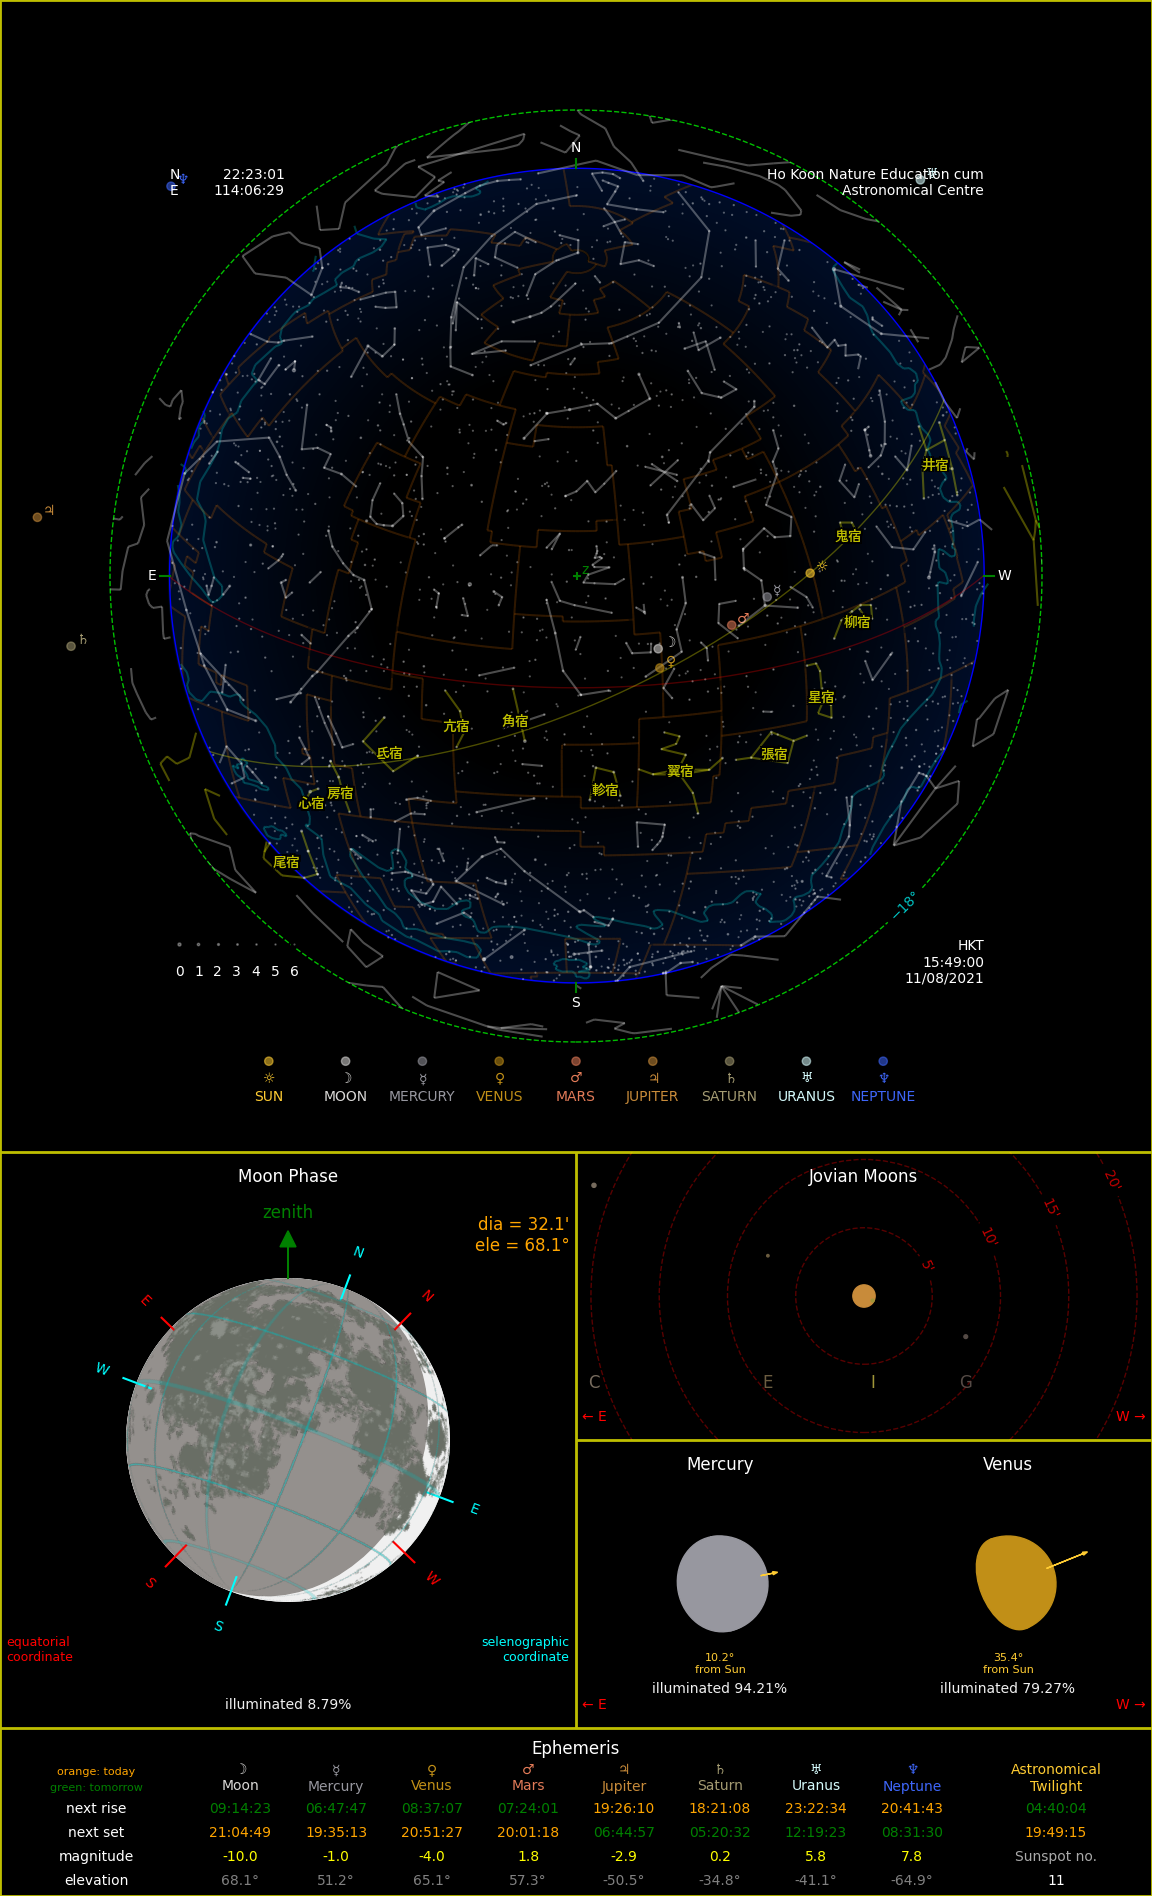
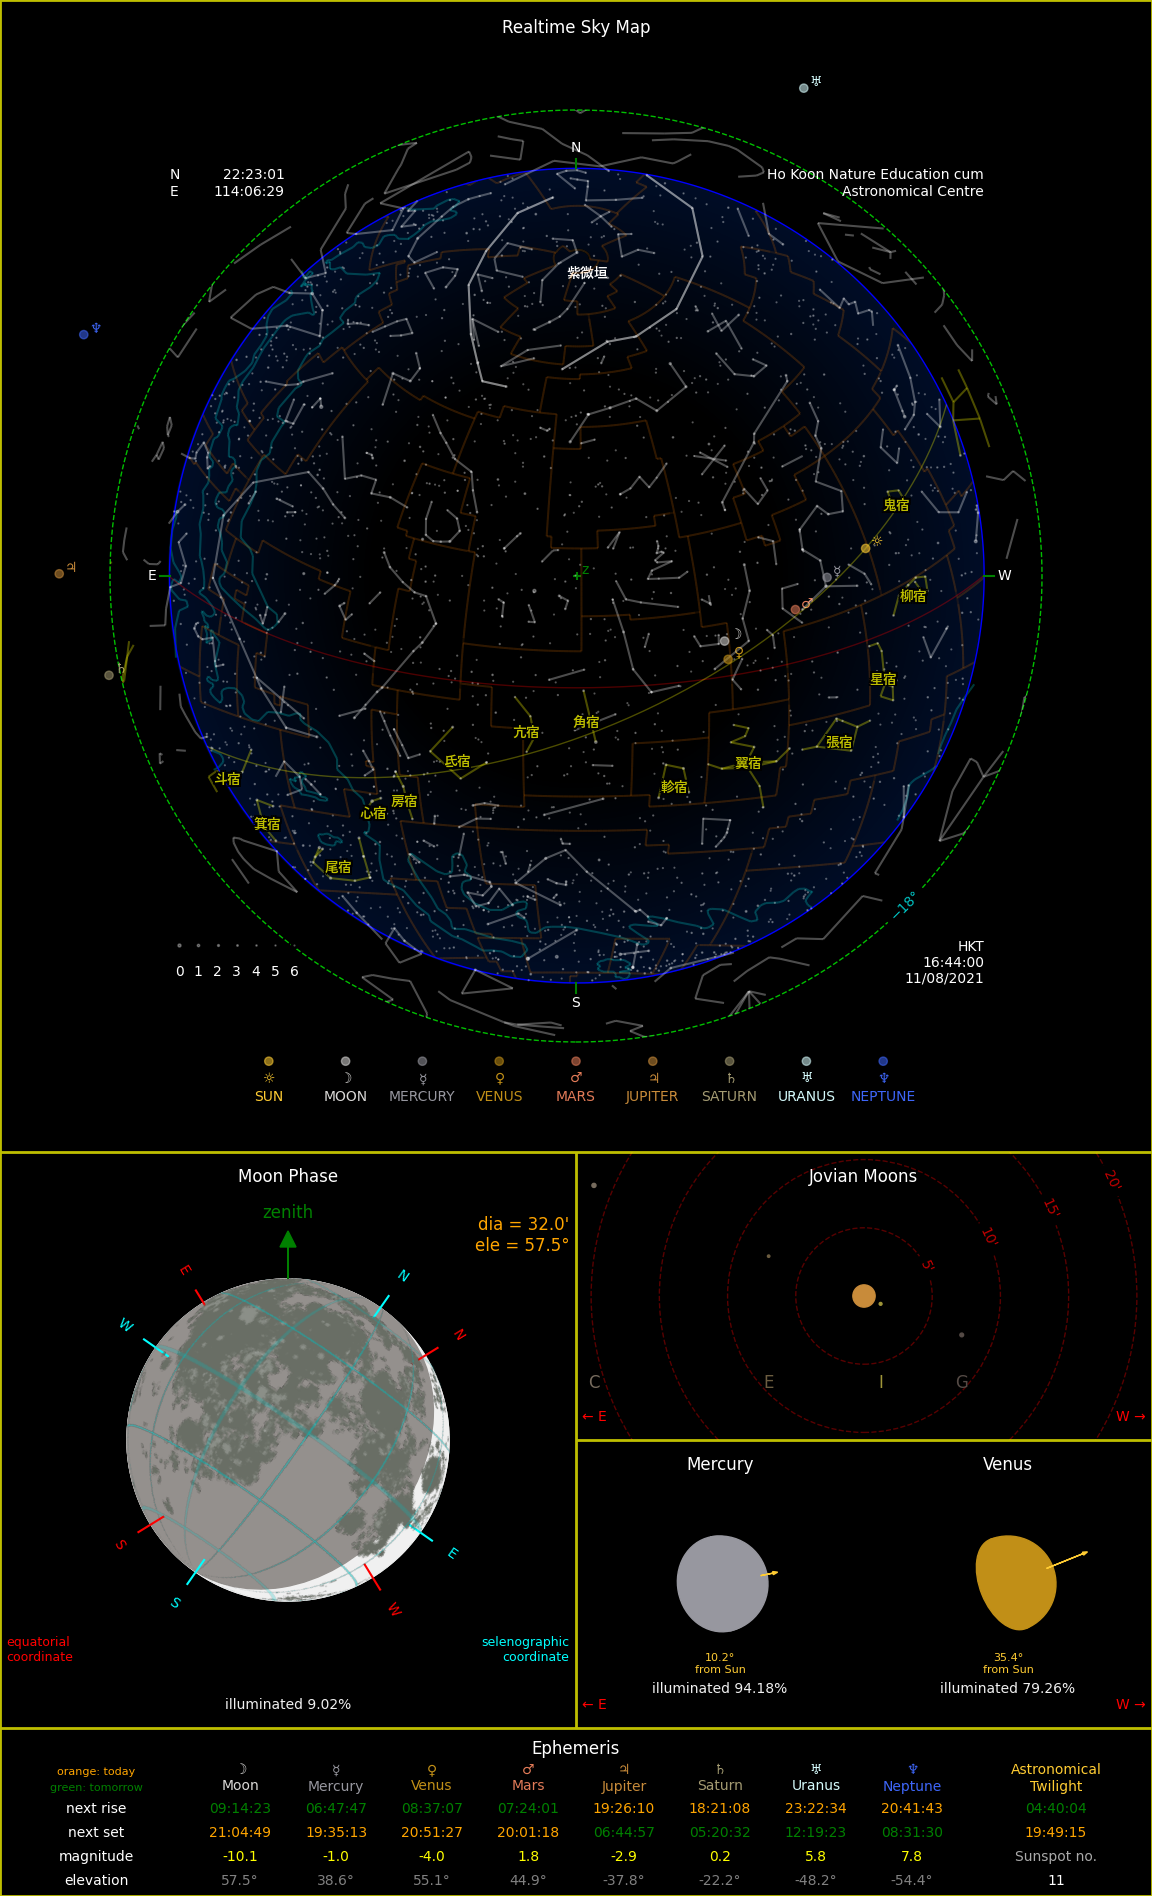
Add files via upload

diff --git a/ASC_skymap_C.py b/ASC_skymap_C.py
@@ -700,6 +700,17 @@ def plot_constellation():
     ########
     #紫微垣#
     ########
+    #紫微垣#
+    C_A00 = [[Cas.x[44],Cep.x[14]],[Cas.y[44],Cep.y[14]],[Cep.x[14],Dra.x[50]],[Cep.y[14],Dra.y[50]],\
+             [Dra.x[1],Dra.x[4]],[Dra.y[1],Dra.y[4]],[Dra.x[1],Dra.x[12]],[Dra.y[1],Dra.y[12]],\
+             [Dra.x[4],Dra.x[25]],[Dra.y[4],Dra.y[25]],[Dra.x[5],Dra.x[12]],[Dra.y[5],Dra.y[12]],\
+             [Dra.x[25],Dra.x[50]],[Dra.y[25],Dra.y[50]],[Cam.x[2],Cam.x[10]],[Cam.y[2],Cam.y[10]],\
+             [Cam.x[2],Cam.x[20]],[Cam.y[2],Cam.y[20]],[Cam.x[20],UMa.x[23]],[Cam.y[20],UMa.y[23]],\
+             [Dra.x[7],Dra.x[11]],[Dra.y[7],Dra.y[11]],[Dra.x[10],Dra.x[11]],[Dra.y[10],Dra.y[11]],\
+             [Dra.x[10],UMa.x[23]],[Dra.y[10],UMa.y[23]]]
+    CA00n = [numpy.mean([numpy.mean([Cep.x[14],Dra.x[50]]),numpy.mean([Cam.x[20],Dra.x[10],UMa.x[23]])]),\
+             numpy.mean([numpy.mean([Cep.y[14],Dra.y[50]]),numpy.mean([Cam.y[20],Dra.y[10],UMa.y[23]])])]
+    print(CA00n)
     #北極#
     C_A01 = [[UMi.x[1],UMi.x[2]],[UMi.y[1],UMi.y[2]],[UMi.x[1],UMi.x[4]],[UMi.y[1],UMi.y[4]],\
              [UMi.x[4],UMi.x[8]],[UMi.y[4],UMi.y[8]],[UMi.x[8],Cam.x[29]],[UMi.y[8],Cam.y[29]]]
@@ -875,7 +886,7 @@ def plot_constellation():
     C_A_list = [C_A01,C_A02,C_A03,C_A04,C_A05,C_A06,C_A07,C_A08,C_A09,C_A10,\
                 C_A11,C_A12,C_A13,C_A14,C_A15,C_A16,C_A17,C_A18,C_A19,C_A20,\
                 C_A21,C_A22,C_A23,C_A24,C_A25,C_A26,C_A27,C_A28,C_A29,C_A30,\
-                C_A31,C_A32,C_A33,C_A34,C_A35,C_A36,C_A37,C_A38,C_A39]
+                C_A31,C_A32,C_A33,C_A34,C_A35,C_A36,C_A37,C_A38,C_A39,C_A00]
 
     # 紫微垣 linecollection
     C_A_line_xy1 = []
@@ -902,7 +913,7 @@ def plot_constellation():
                 [CA21n,'內階'],[CA22n,'天廚'],[CA23n,'八穀'],[CA24n,'天棓'],[CA25n,'內廚'],\
                 [CA26n,'文昌'],[CA27n,'三師'],[CA28n,'三公'],[CA29n,'天床'],[CA30n,'太尊'],\
                 [CA31n,'天牢'],[CA32n,'太陽守'],[CA33n,'勢'],[CA34n,'相'],[CA35n,'玄戈'],\
-                [CA36n,'玄戈'],[CA37n,'北斗'],[CA38n,'輔'],[CA39n,'天槍']]
+                [CA36n,'玄戈'],[CA37n,'北斗'],[CA38n,'輔'],[CA39n,'天槍'],[CA00n,'紫微垣']]
   
 ##    for i in range(len(CAn_list)):
 ##        if len(CAn_list[i][0]) != 0:
@@ -910,6 +921,12 @@ def plot_constellation():
 ##               and max(CAn_list[i][0])-min(CAn_list[i][0]) < hori_border:
 ##                ax0.annotate(str(CAn_list[i][1]),(CAn_list[i][0][0],CAn_list[i][0][1]),color='w',\
 ##                                  fontproperties=chara_chi,horizontalalignment='center',verticalalignment='top')
+
+    if len(CAn_list[-1][0]) != 0:
+        if (CAn_list[-1][0][0])**2 < (hori_border/2)**2-(CAn_list[-1][0][1])**2 \
+            and max(CAn_list[-1][0])-min(CAn_list[-1][0]) < hori_border:
+            ax0.annotate(str(CAn_list[-1][1]),(CAn_list[-1][0][0],CAn_list[-1][0][1]),color='w',\
+                         fontproperties=chara_chi,horizontalalignment='center',verticalalignment='top')
 
     ########
     #太微垣#
@@ -2940,6 +2957,8 @@ def plot_ASC():
     ax0.set_ylim((-300,300))
     ax0.axis('off')
     ax0.add_patch(patches.Rectangle((-300,-300),600,600,fc='none',ec=(1,1,0,0.75),lw=2))
+    
+    ax0.annotate('Realtime Sky Map',(0,290),xycoords=('data'),ha='center',va='top',fontproperties=DjV_S_12,color='white')
     
     plot_solar()
     plot_constellation()
